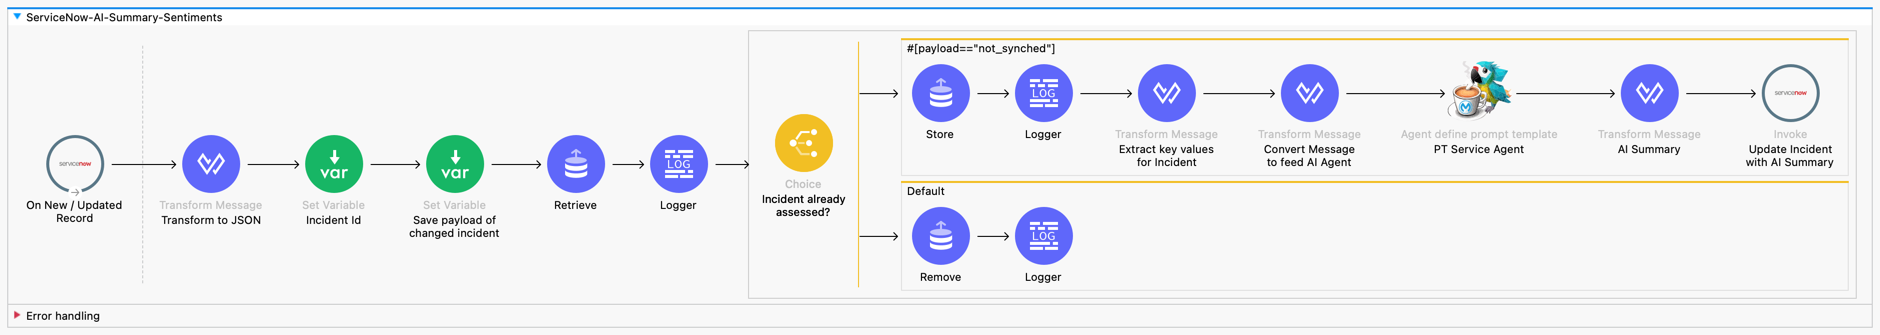
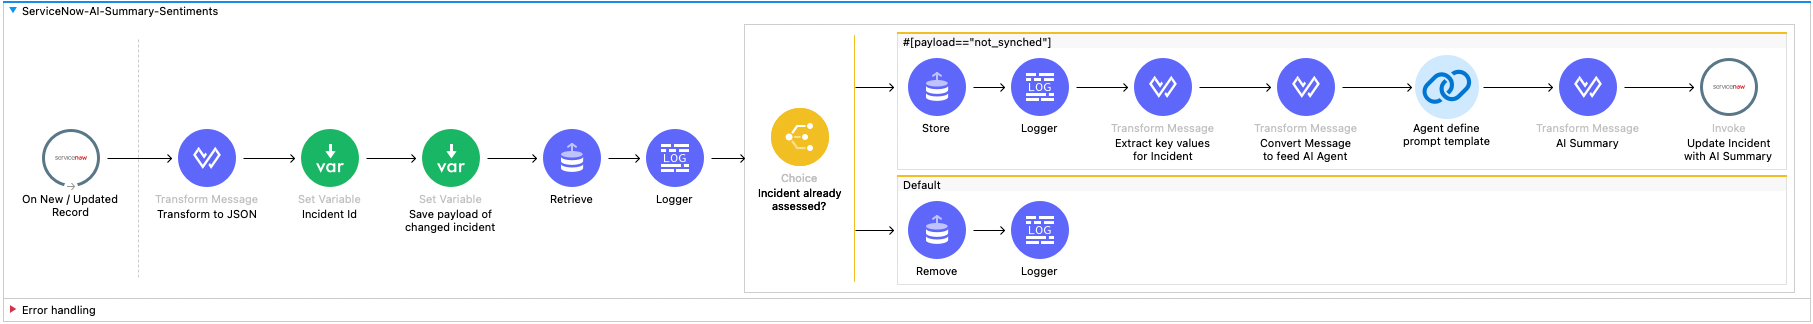
Updated README.md to reflect latest cahnged
This includes project cleanup

Changed region(s): [[0.0, 0.0617, 1.0, 1.0], [0.0, 0.0, 1.0, 0.0617], [0.0309, 0.4012, 0.0618, 0.4321]]

diff --git a/service_now_incident_agent/README.md b/service_now_incident_agent/README.md
@@ -3,20 +3,22 @@
 This is an example mule app to demonstrate a servicenow incident agent built with MuleChain Connector. 
 
 The mule flow uses the following connectors:
-- MuleChain AI Connector v0.1.0
-- ServiceNow Connector v6.16
+- MuleSoft AI Chain Connector v1.0.0
+- ServiceNow Connector v6.17.1
 - ObjectStore v1.2.2
+- HTTP Connector v1.10.3
+- Sockets v1.2.5
 
 
 ## Systems involved
-- The LLM configuration used in this mule flow is **OpenAI**.
+- The LLM configuration used in this mule flow is **OpenAI**. Configuration file can support others if needed.
 - **ServiceNow Free Instance** was used to build this mule flow. You can register for the ServiceNow Free Instance for this demo: https://developer.servicenow.com/
 
 ## ServiceNow Mule Flow 
 
 ![App Screenshot](src/main/resources/service_now_incident_agent.png)
 
-This mule flows is tracking each new and/or updated incident in ServiceNow to start the assessment with MuleChain using a defined Prompt Template. 
+This mule flows is tracking each new and/or updated incident in ServiceNow to start the assessment with MuleSoft AI Chain using an Agent defined Prompt Template. 
 
 
 ## Configuration
@@ -25,19 +27,19 @@ The configuration contains 2 files to be populated:
 - envVars.json
 
 ### connections.yaml
-The mule apps maintains a connections.yaml file under ``/Service_Now_incident_agent/src/main/resources/connections.yaml``, which contains all required parameters to establish the connection. Fill out the following configuration to use this ServiceNow agent. 
+The mule apps maintains a connections.yaml file under ``/service_now_incident_agent/src/main/resources/connections.yaml``, which contains all required parameters to establish the connection. Fill out the following configuration to use this ServiceNow agent. 
 
 ```yaml
 servicenow:
   url: "https://{your-servicenow-instance}.service-now.com/"
-  user: "{your-servicenow-password}"
+  user: "{your-servicenow-username}"
   password: "{your-servicenow-password}"
 ```
 
 The connections.yaml is mapped to the dedicated connectors in the mule flow. 
 
 ### envVars.json
-All LLM configuration properties are under ``/Service_Now_incident_agent/src/main/resources/envVars.json``, which contains all required parameters for the LLM. Fill out the following configuration for the LLM of your need. Note, that only the six LLMs are currently supported.
+All LLM configuration properties are under ``/service_now_incident_agent/src/main/resources/envVars.json``, which contains all required parameters for the LLM. Fill out the following configuration for the LLM of your need. Note, that only the six LLMs are currently supported.
 
 
 ```json
@@ -62,8 +64,8 @@ All LLM configuration properties are under ``/Service_Now_incident_agent/src/mai
 }
 ```
 
-### MuleChain configuration
-In the MuleChain LLM Configuraiton, you have to select the LLM type from the dropdown, the configuraiton type must be set to *Configuration Json* and the *File path* must set to the path of the ``/Service_Now_incident_agent/src/main/resources/envVars.json``. To make it dynamically linked to the resources, you can use the dataweave statement ```mule.home ++ "/apps/" ++ app.name ++ "/envVars.json"```. All relevant informations are extracted from the **envVars.json** during runtime. 
+### MuleSoft AI Chain configuration
+In the MuleSoft AI Chain LLM Configuration, you have to select the LLM type from the dropdown, the configuraiton type must be set to *Configuration Json* and the *File path* must set to the path of the ``/service_now_incident_agent/src/main/resources/envVars.json``. To make it dynamically linked to the resources, you can use the dataweave statement ```mule.home ++ "/apps/" ++ app.name ++ "/envVars.json"```. All relevant informations are extracted from the **envVars.json** during runtime. 
 
 <img src="src/main/resources/llm Config.png" width="50%" height="50%" />
 
@@ -73,22 +75,24 @@ The configuration property `user`, `password`, and `url` are linked to the *Serv
 <img src="src/main/resources/ServiceNowConnection.png" width="50%" height="50%" />
 
 #### Custom Field (*AI Summary*)
-1 custom field need to be created for this mule flow in ServiceNow. 
+1 custom field will need to be created for this mule flow in ServiceNow. 
 - *AI Summary* - field where the flow will write suggestion based on AI
 - After creating the field, the technical name need to be replaced in the Transform Message before Editing the ServiceNow incident in the mule flow.
+- There is also a post to the field *description* in case you are not able to create the custom *AI Summary* field.
 
 
-<img src="src/main/resources/customfield.png" width="50%" height="50%" />
+<img src="src/main/resources/customfield1.png" width="50%" height="50%" />
+<img src="src/main/resources/customfield2.png" width="50%" height="50%" />
 
 #### Modify ServiceNow Trigger
 Make sure the trigger to shows ALL in the *System Reference* field. This is important to get the comments and notes in the flow.
 
 <img src="src/main/resources/snowtrigger.png" width="70%" height="70%" />
 
-#### JRE System Library -> Java 8
-Before starting the Mule App, make sure the check that Java 8 is set in the **JRE System Library**. You can check this by the project context menu > **Build Path > Configure Build Path > Libraries (Tab)**. 
+#### JRE System Library -> Java 17
+Before starting the Mule App, make sure the check that Java 17 is set in the **JRE System Library**. You can check this by the project context menu > Mule > Open Mule Project Properties **Build Path > Configure Build Path > Libraries (Tab)**. 
 
-![App Screenshot](src/main/resources/java8.png)
+![App Screenshot](src/main/resources/java17.png)
 
 #### Start your app
 After configuring the ServiceNow incident agent, let it run and test it out! 
@@ -105,3 +109,7 @@ A demo video to show case the ability of the ServiceNow Incident Agent once depl
 ## Author
 
 - [@amirkhan-ak-sf](https://github.com/amirkhan-ak-sf)
+
+### Updates
+
+- [@mrrontam](https://github.com/mrrontam) 04-30-2025
